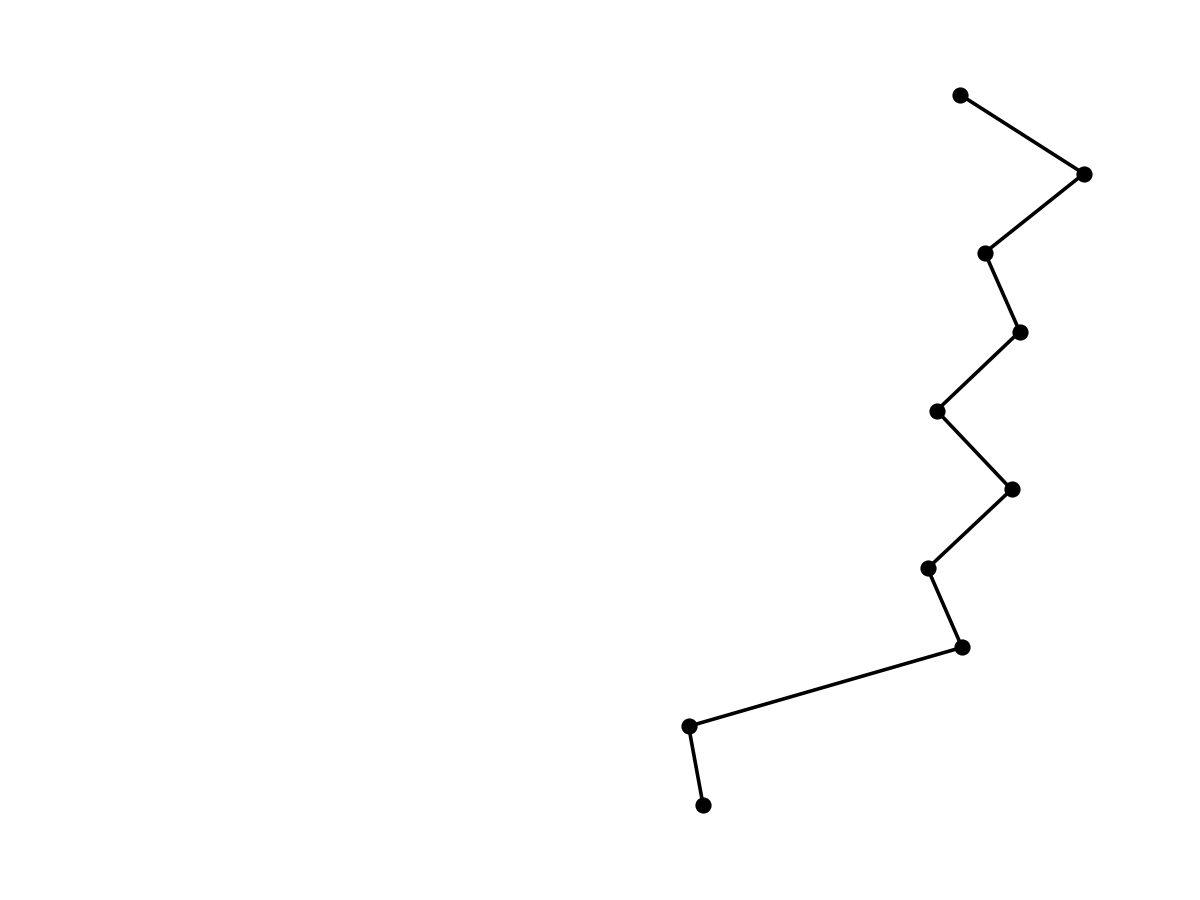
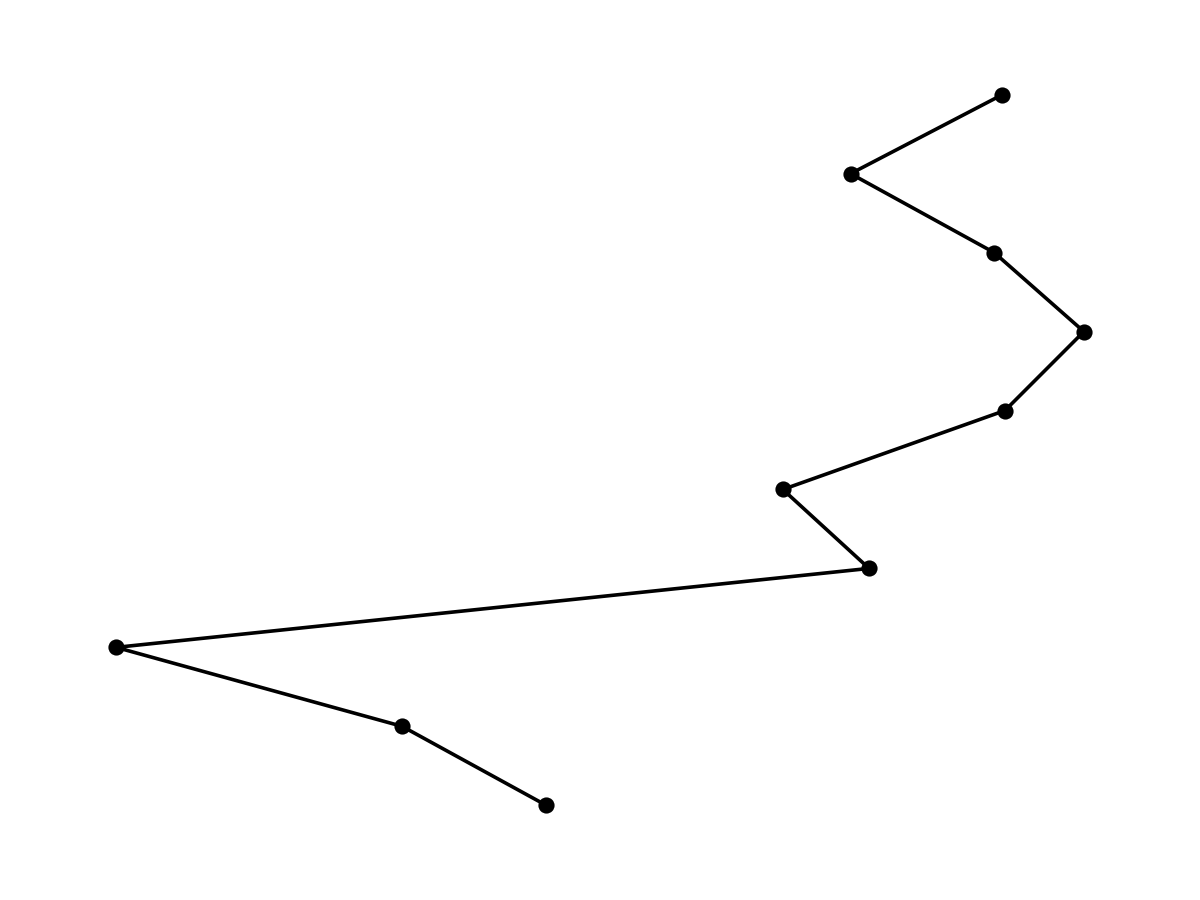
Seed each model separately in the universal-dimensions graphic
_symnmf started every model from the same random initialisation, which
made dimensions match by construction and overstated universality. Each
model now gets its own seed, and the x-range always includes the
highlighted thread.

diff --git a/new-site/scripts/card_graphics.py b/new-site/scripts/card_graphics.py
@@ -459,11 +459,13 @@ def paper_universal(w=1200, h=900, rank=30):
 
     files = sorted((Path.home() / "Downloads/p_max0pt02_model_features").glob("*.npy"))
     embeddings = []
-    for f in files:
+    for model_index, f in enumerate(files):
         z = np.load(f).astype(np.float64)
         d = squareform(pdist(z))
         sigma = np.median(d[np.triu_indices_from(d, 1)])
-        embeddings.append(_symnmf(np.exp(-(d**2) / (2 * sigma**2)), rank))
+        embeddings.append(
+            _symnmf(np.exp(-(d**2) / (2 * sigma**2)), rank, seed=model_index)
+        )
     unit = [e / np.linalg.norm(e, axis=0, keepdims=True) for e in embeddings]
     n_models = len(unit)
     null_rng = np.random.default_rng(0)
@@ -498,7 +500,8 @@ def paper_universal(w=1200, h=900, rank=30):
     )
     y = np.arange(n_models)
     # Two near-chance outliers (IPCL rows) would squash the strip; they fall off the left edge.
-    lo, hi = np.percentile(score, 1), score.max()
+    # Keep the 1st-percentile floor for the dots, but never cut off the highlighted thread.
+    lo, hi = min(np.percentile(score, 1), thread.min()), max(score.max(), thread.max())
     pad = (hi - lo) * 0.04
     for name in ("ink", "accent"):
         fig, ax = canvas(w, h)
